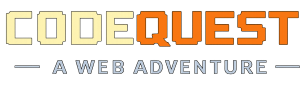
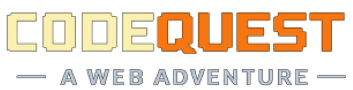
colour changes to match images

diff --git a/style.css b/style.css
@@ -1,6 +1,6 @@
 body {
     background-color: #1e2635;
-    color: #faeed2;
+    color: #f7efab;
     font-family: "Fira Code", "Courier New", monospace;
     font-size: 14px;
     padding: 10px 40px;
@@ -32,7 +32,7 @@ h2 {
     padding: 0;
     margin: 0;
     font-size: 18px;
-    color: #9dd2e9;
+    color: #bbc7d8;
 }
 
 ul,
@@ -67,9 +67,9 @@ a:active {
 }
 
 section {
-    border: 5px solid #faeed2;
+    border: 5px solid #f7efab;
     border-radius: 5px;
-    box-shadow: 0 0 5px #faeed2;
+    box-shadow: 0 0 5px #f7efab;
 }
 
 .sectionHead {
